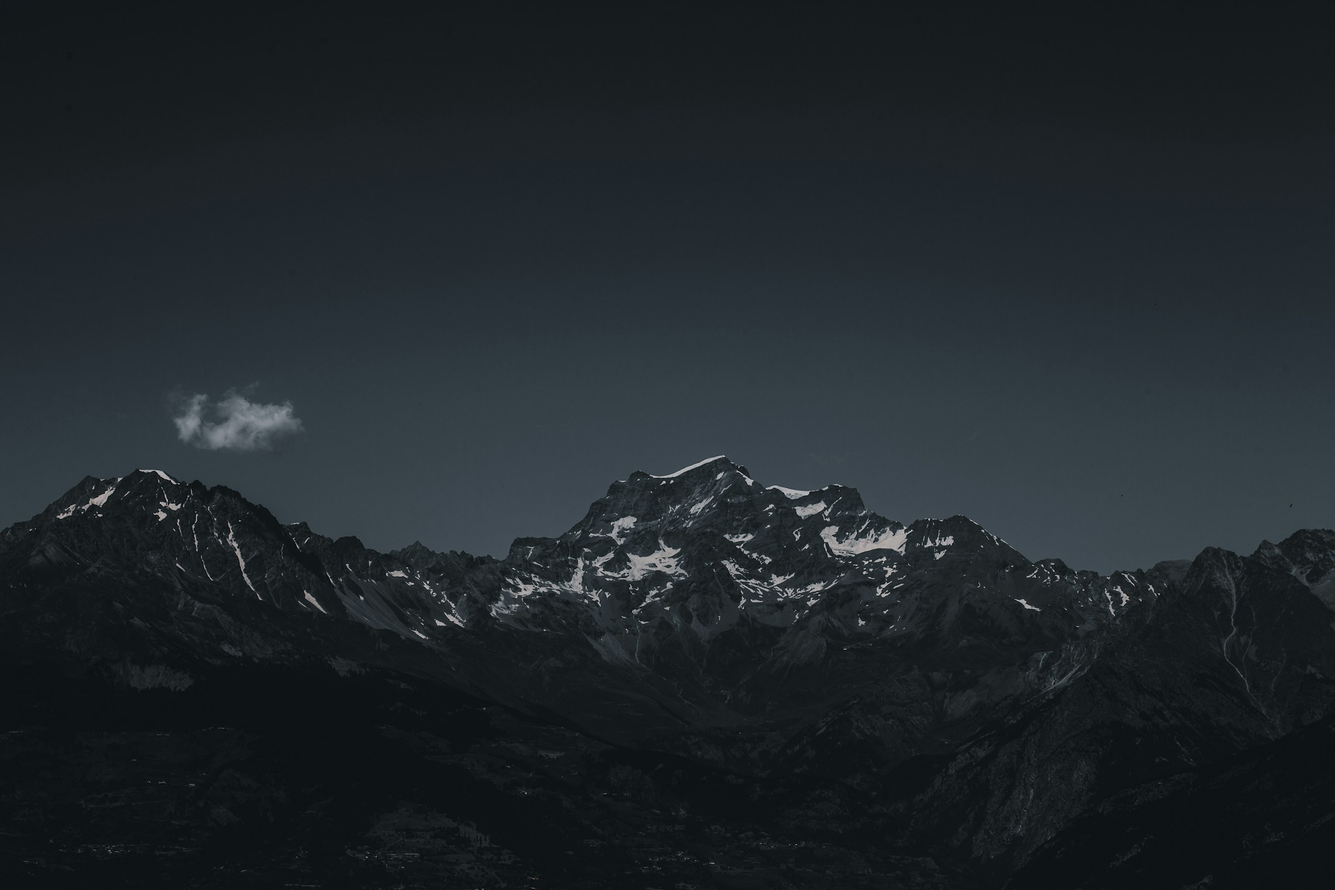
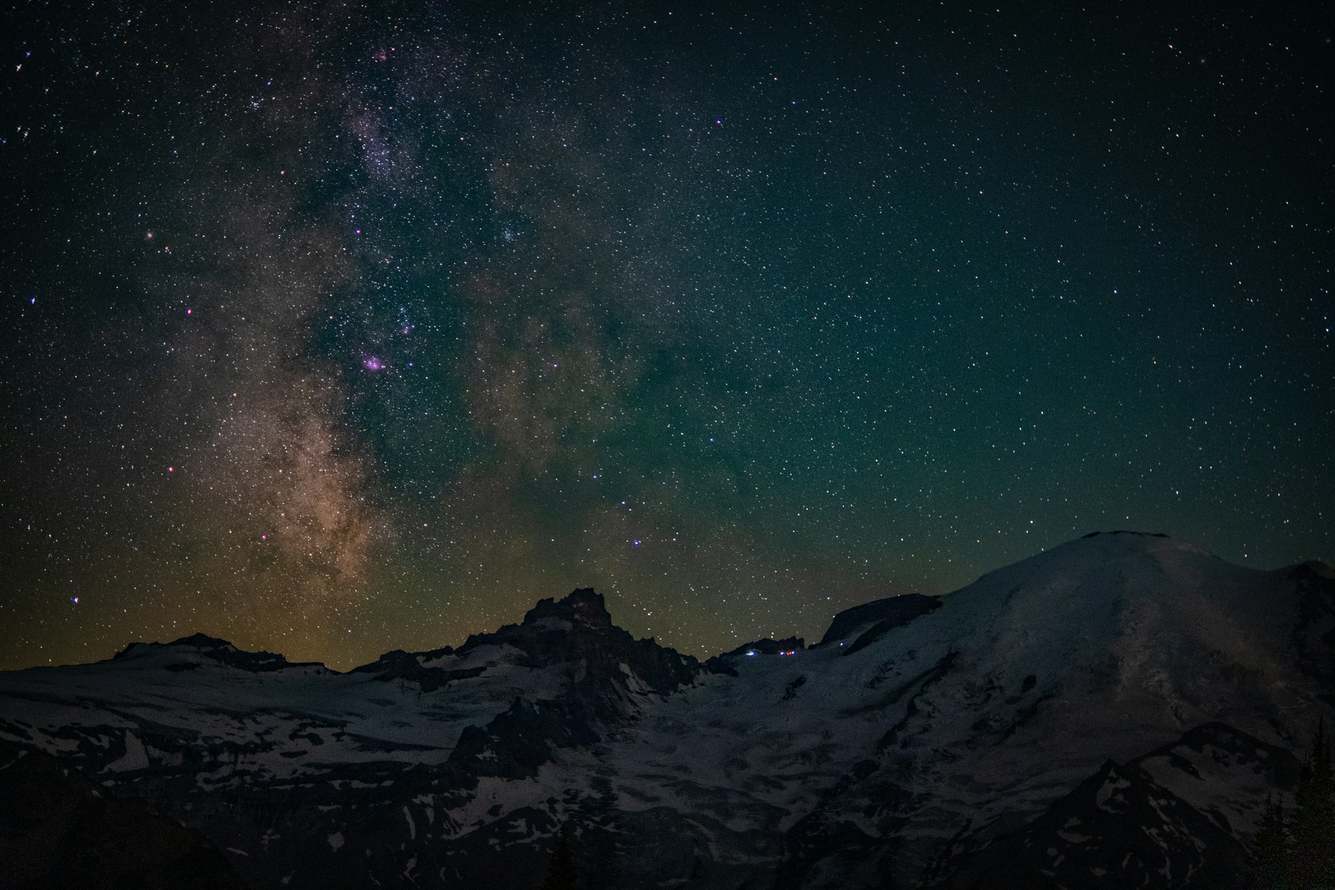
Mostly completed

diff --git a/src/components/windows/Cli.jsx b/src/components/windows/Cli.jsx
@@ -1,0 +1,106 @@
+import MacWindow from './MacWindow'
+import Terminal from 'react-console-emulator'
+import "./cli.scss"
+
+const Cli = ({ windowName, setWindowsState }) => {
+    const commands = {
+        about: {
+            description: 'About me',
+            usage: 'about',
+            fn: () => 'I am a full-stack web developer passionate about building modern web applications with React, Node.js, and cloud technologies.'
+        },
+        skills: {
+            description: 'List technical skills',
+            usage: 'skills',
+            fn: () => `Frontend: React, Vue.js, Vanilla JS, Sass, HTML/CSS
+Backend: Node.js, Express, Python, Django
+Databases: MongoDB, PostgreSQL, MySQL
+Tools: Git, Docker, Webpack, Vite
+Cloud: AWS, Azure, Heroku`
+        },
+        projects: {
+            description: 'View my projects',
+            usage: 'projects',
+            fn: () => `1. Portfolio Website - React + Vite
+2. E-commerce Platform - MERN Stack
+3. Task Management App - Next.js
+4. Real-time Chat App - Socket.io
+5. Data Dashboard - React + Chart.js`
+        },
+        experience: {
+            description: 'Display work experience',
+            usage: 'experience',
+            fn: () => `Senior Developer @ Tech Corp (2022 - Present)
+  - Led development of 5+ React applications
+  - Mentored junior developers
+
+Full Stack Developer @ Web Solutions (2020 - 2022)
+  - Built scalable APIs with Node.js
+  - Designed responsive UIs with React`
+        },
+        contact: {
+            description: 'Get contact information',
+            usage: 'contact',
+            fn: () => `Email: ankur@example.com
+Phone: +1 (555) 123-4567
+Location: San Francisco, CA`
+        },
+        github: {
+            description: 'Open GitHub profile',
+            usage: 'github',
+            fn: () => {
+                window.open('https://github.com', '_blank')
+                return 'Opening GitHub...'
+            }
+        },
+        resume: {
+            description: 'Download resume',
+            usage: 'resume',
+            fn: () => 'Resume download started...'
+        },
+        social: {
+            description: 'View social media links',
+            usage: 'social',
+            fn: () => `Twitter: @ankurdev
+LinkedIn: /in/ankurprajapati
+Portfolio: ankurprajapati.dev`
+        },
+        echo: {
+            description: 'Echo a passed string',
+            usage: 'echo <string>',
+            fn: (...args) => args.join(' ')
+        }
+    }
+
+    const welcomeMessage = `
+╔════════════════════════════════════════╗
+║     Welcome to My Portfolio CLI!       ║
+╚════════════════════════════════════════╝
+
+Hello! 👋 Welcome to my interactive portfolio. You can navigate through my work experience, skills, and projects using terminal commands.
+
+Type 'help' to see all available commands, or try:
+  • about     - Learn about me
+  • skills    - View my technical skills
+  • projects  - Check out my work
+  • experience - See my career history
+  • contact   - Get in touch
+
+Happy exploring! 🚀
+`
+
+    return (
+        <MacWindow windowName={windowName} setWindowsState={setWindowsState} >
+            <div className="cli-window">
+                <Terminal
+                    commands={commands}
+                    welcomeMessage={welcomeMessage}
+                    promptLabel={'ankurprajapati:~$'}
+                    promptLabelStyle={{ color: '#00ff00' }}
+                />
+            </div>
+        </MacWindow>
+    )
+}
+
+export default Cli

diff --git a/src/components/Dock.jsx b/src/components/Dock.jsx
@@ -1,17 +1,34 @@
-import React from 'react'
 import "./dock.scss"
 
-const Dock = () => {
+const Dock = ({ setWindowsState }) => {
     return (
         <footer className='dock' >
-            <div className="icon github"><img src="/doc-icons/github.svg" alt="" /></div>
-            <div className="icon note"><img src="/doc-icons/note.svg" alt="" /></div>
-            <div className="icon pdf"><img src="/doc-icons/pdf.svg" alt="" /></div>
-            <div className="icon calender"><img src="/doc-icons/calender.svg" alt="" /></div>
-            <div className="icon spotify"><img src="/doc-icons/spotify.svg" alt="" /></div>
-            <div className="icon mail"><img src="/doc-icons/mail.svg" alt="" /></div>
-            <div className="icon link"><img src="/doc-icons/link.svg" alt="" /></div>
-            <div className="icon cli"><img src="/doc-icons/cli.svg" alt="" /></div>
+            <div
+                onClick={() => { setWindowsState(state => ({ ...state, github: true })) }}
+                className="icon github"><img src="/doc-icons/github.svg" alt="" /></div>
+            <div
+                onClick={() => { setWindowsState(state => ({ ...state, note: true })) }}
+                className="icon note"><img src="/doc-icons/note.svg" alt="" /></div>
+            <div
+                onClick={() => { setWindowsState(state => ({ ...state, resume: true })) }}
+                className="icon pdf"><img src="/doc-icons/pdf.svg" alt="" /></div>
+            <div
+                onClick={()=>{window.open("https://calendar.google.com/","_blank")}}
+            
+             className="icon calender"><img src="/doc-icons/calender.svg" alt="" /></div>
+            <div
+                onClick={() => { setWindowsState(state => ({ ...state, spotify: true })) }}
+                className="icon spotify"><img src="/doc-icons/spotify.svg" alt="" /></div>
+            <div
+            onClick={()=>{window.open("mailto:ankur@example.com","_blank")}}
+             className="icon mail"><img src="/doc-icons/mail.svg" alt="" /></div>
+            <div 
+            onClick={()=>{window.open("https://www.linkedin.com/in/ankur-prajapati-177542231/","_blank")}}
+            
+            className="icon link"><img src="/doc-icons/link.svg" alt="" /></div>
+            <div
+                onClick={() => { setWindowsState(state => ({ ...state, cli: true })) }}
+                className="icon cli"><img src="/doc-icons/cli.svg" alt="" /></div>
         </footer>
     )
 }

diff --git a/src/App.jsx b/src/App.jsx
@@ -6,19 +6,29 @@ import Github from './components/windows/Github'
 import Note from './components/windows/Note'
 import Resume from './components/windows/Resume'
 import Spotify from './components/windows/Spotify'
+import Cli from './components/windows/Cli'
+
 
 
 
 function App() {
+  const [windowsState, setWindowsState] = useState({
+    github: false,
+    note: false,
+    resume: false,
+    spotify: false,
+    cli: false
+  })
+
   return (
     <main>
       <Nav />
-      <Dock />
-
-      <Github />
-      <Note />
-      <Resume />
-      <Spotify />
+      <Dock setWindowsState={setWindowsState} />
+      {windowsState.github && <Github windowName="github" setWindowsState={setWindowsState} />}
+      {windowsState.note && <Note windowName="note" setWindowsState={setWindowsState} />}
+      {windowsState.resume && <Resume windowName="resume" setWindowsState={setWindowsState} />}
+      {windowsState.spotify && <Spotify windowName="spotify" setWindowsState={setWindowsState} />}
+      {windowsState.cli && <Cli windowName="cli" setWindowsState={setWindowsState} />}
     </main>
   )
 }

diff --git a/src/components/windows/Note.jsx b/src/components/windows/Note.jsx
@@ -1,4 +1,4 @@
-import React, { useEffect,useState } from 'react'
+import { useEffect,useState } from 'react'
 import Markdown from 'react-markdown'
 import SyntaxHighlighter from 'react-syntax-highlighter';
 import { atelierDuneDark } from 'react-syntax-highlighter/dist/esm/styles/hljs';
@@ -6,7 +6,7 @@ import MacWindow from './MacWindow'
 import "./note.scss"
 
 
-const Note = () => {
+const Note = ({ windowName, setWindowsState }) => {
 
     const [ markdown, setMarkdown ] = useState(null)
 
@@ -17,7 +17,7 @@ const Note = () => {
     }, [])
 
     return (
-        <MacWindow>
+        <MacWindow windowName={windowName} setWindowsState={setWindowsState} >
             <div className="note-window">
                 { markdown ? <SyntaxHighlighter language='typescript' style={atelierDuneDark} >{markdown}</SyntaxHighlighter> : <p>Loading...</p> }
             </div>

diff --git a/src/components/windows/MacWindow.jsx b/src/components/windows/MacWindow.jsx
@@ -1,8 +1,7 @@
-import React from 'react'
 import { Rnd } from 'react-rnd'
 import "./window.scss"
 
-const MacWindow = ({ children, width = "40vw", height = "40vh" }) => {
+const MacWindow = ({ children, width = "40vw", height = "40vh", windowName, setWindowsState }) => {
     return (
         <Rnd
             default={{
@@ -15,7 +14,7 @@ const MacWindow = ({ children, width = "40vw", height = "40vh" }) => {
             <div className="window">
                 <div className="nav">
                     <div className="dots">
-                        <div className="dot red"></div>
+                        <div onClick={() => setWindowsState(state => ({ ...state, [windowName]: false }))} className="dot red"></div>
                         <div className="dot yellow"></div>
                         <div className="dot green"></div>
                     </div>

diff --git a/src/components/windows/Github.jsx b/src/components/windows/Github.jsx
@@ -1,4 +1,3 @@
-import React from 'react'
 import githubData from "../../assets/github.json"
 import MacWindow from './MacWindow'
 import "./github.scss"
@@ -24,9 +23,9 @@ const GitCard = ({ data = { id: 1, image: "", title: "", description: "", tags: 
 }
 
 
-const Github = () => {
+const Github = ({ windowName, setWindowsState }) => {
     return (
-        <MacWindow>
+        <MacWindow windowName={windowName} setWindowsState={setWindowsState} >
             <div className="cards">
                 {githubData.map(project => {
                     return <GitCard data={project} />

diff --git a/src/components/windows/Spotify.jsx b/src/components/windows/Spotify.jsx
@@ -1,10 +1,9 @@
-import React from 'react'
 import MacWindow from './MacWindow'
 import "./spotify.scss"
 
-const Spotify = () => {
+const Spotify = ({ windowName, setWindowsState }) => {
     return (
-        <MacWindow width='25vw' >
+        <MacWindow width='25vw'  windowName={windowName} setWindowsState={setWindowsState} >
             <div className="spotify-window">
                 <iframe data-testid="embed-iframe" style={{borderRadius: "12px"}} 
                 src="https://open.spotify.com/embed/playlist/37i9dQZF1DX14CbVHtvHRB?utm_source=generator&theme=0"

diff --git a/src/components/windows/Resume.jsx b/src/components/windows/Resume.jsx
@@ -1,10 +1,9 @@
-import React from 'react'
 import MacWindow from './MacWindow'
 import "./resume.scss"
 
-const Resume = () => {
+const Resume = ({ windowName, setWindowsState }) => {
     return (
-        <MacWindow>
+        <MacWindow windowName={windowName} setWindowsState={setWindowsState} >
             <div className="resume-window">
                 <embed src="/resume.pdf" frameborder="0"></embed>
             </div>

diff --git a/index.html b/index.html
@@ -2,9 +2,8 @@
 <html lang="en">
   <head>
     <meta charset="UTF-8" />
-    <link rel="icon" type="image/svg+xml" href="/vite.svg" />
     <meta name="viewport" content="width=device-width, initial-scale=1.0" />
-    <title>mac-os</title>
+    <title>mac os based Portfolio</title>
   </head>
   <body>
     <div id="root"></div>

diff --git a/src/components/windows/cli.scss b/src/components/windows/cli.scss
@@ -1,0 +1,11 @@
+.cli-window {
+    height: 100%;
+    overflow: auto;
+    padding-bottom: 3rem;
+    background-color: #222222;
+    
+    div[name="react-console-emulator"] {
+        height: 100%;
+        background-color: transparent !important;
+    }
+}

diff --git a/src/main.jsx b/src/main.jsx
@@ -1,9 +1,6 @@
-import { StrictMode } from 'react'
 import { createRoot } from 'react-dom/client'
 import App from './App.jsx'
 
 createRoot(document.getElementById('root')).render(
-  <StrictMode>
-    <App />
-  </StrictMode>,
+  <App />
 )

diff --git a/src/components/DateTime.jsx b/src/components/DateTime.jsx
@@ -1,4 +1,4 @@
-import React, { useState, useEffect } from 'react'
+import { useState, useEffect } from 'react'
 
 const DateTime = () => {
   const [dateTime, setDateTime] = useState('')
